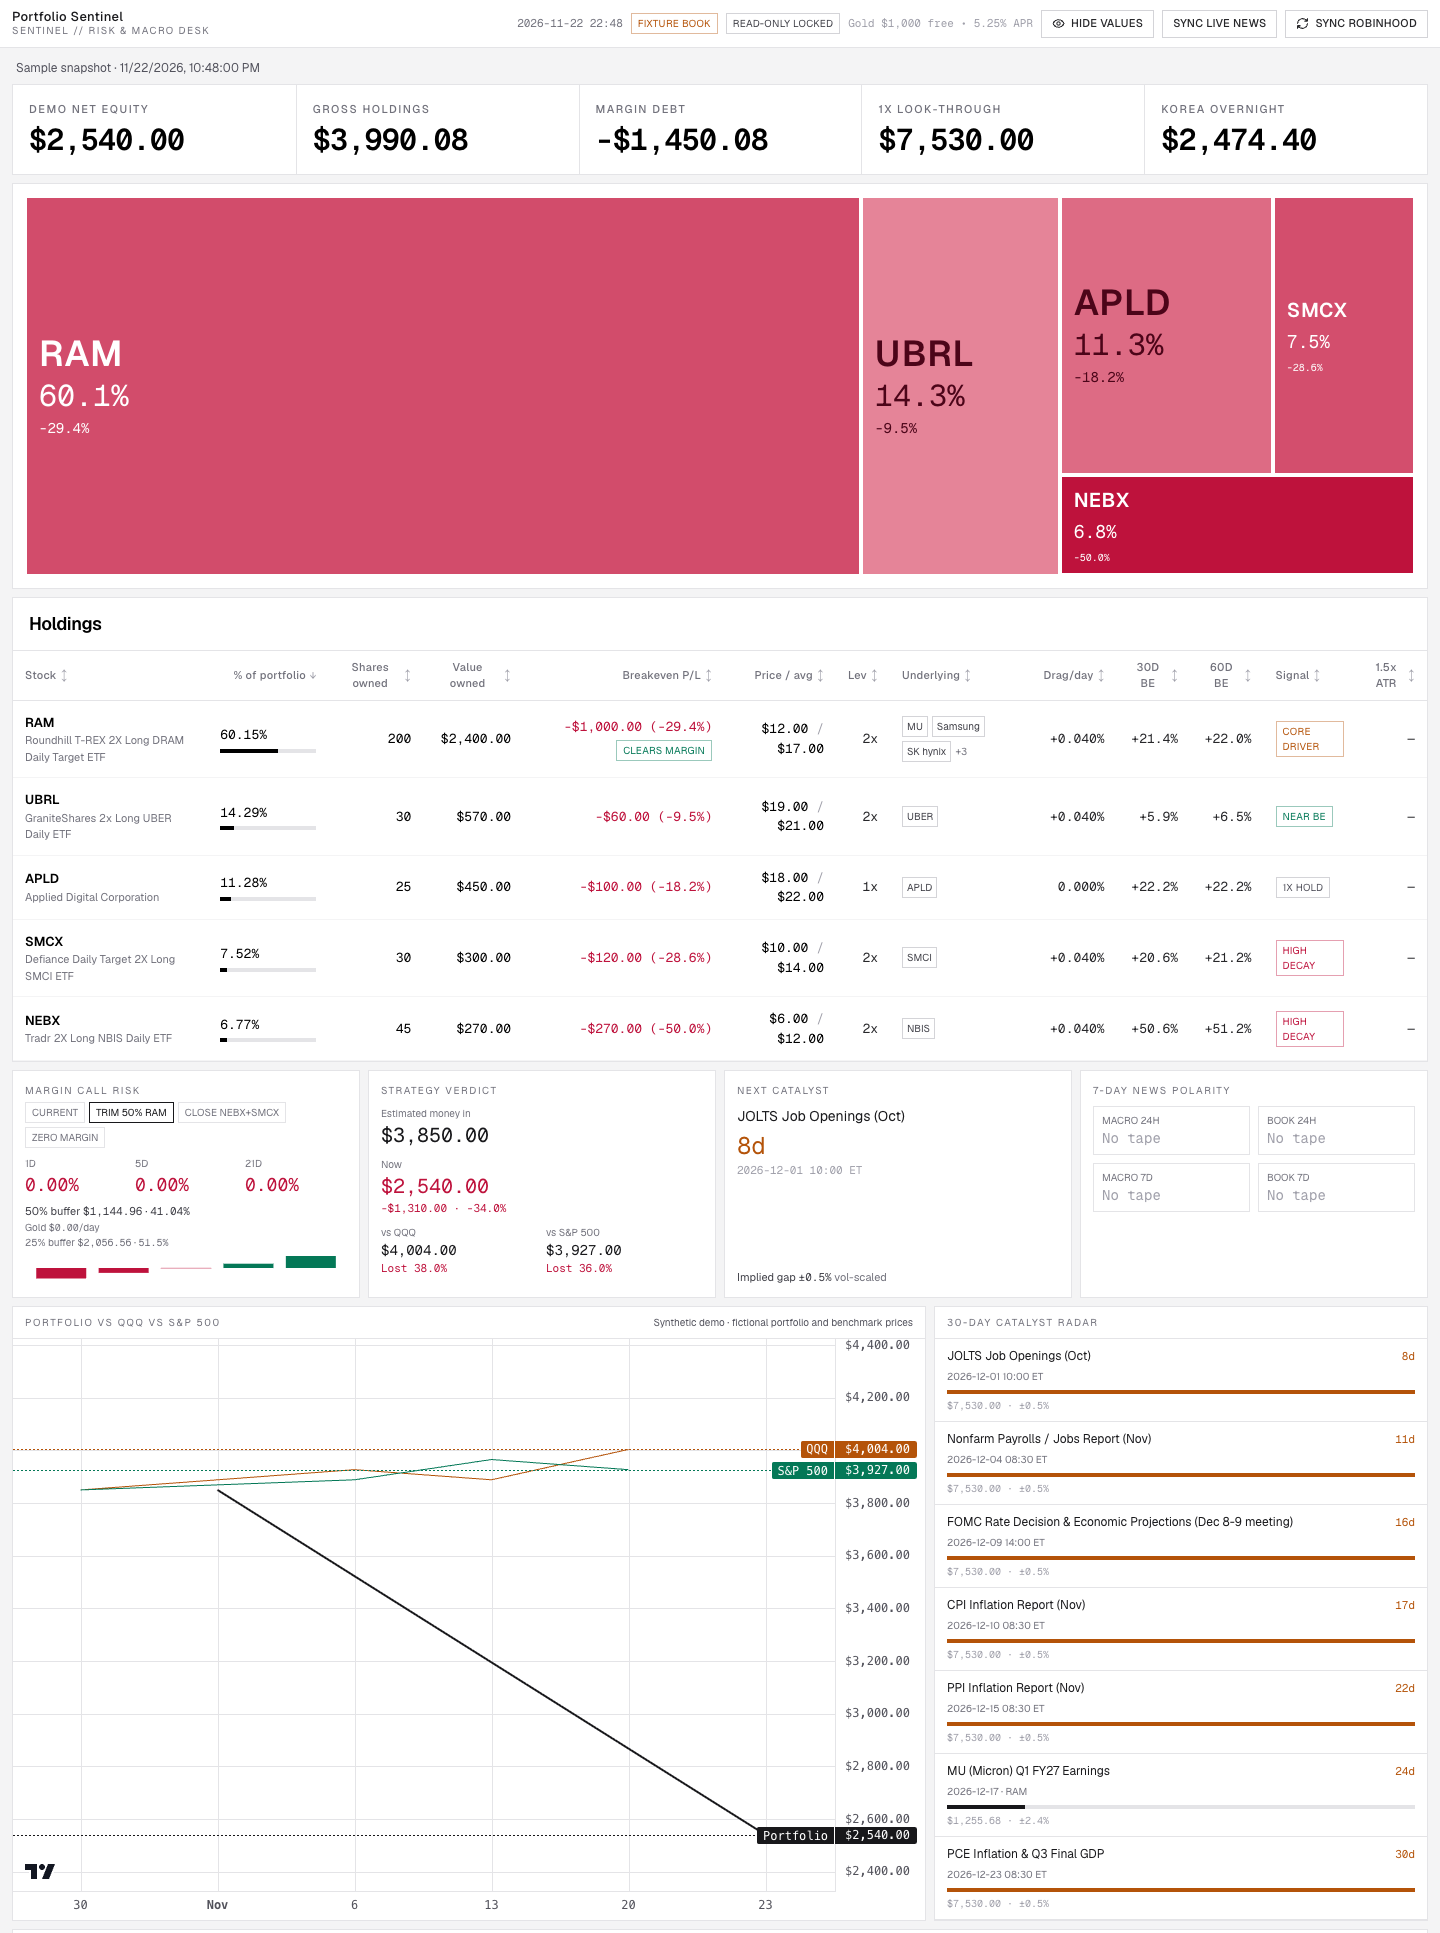
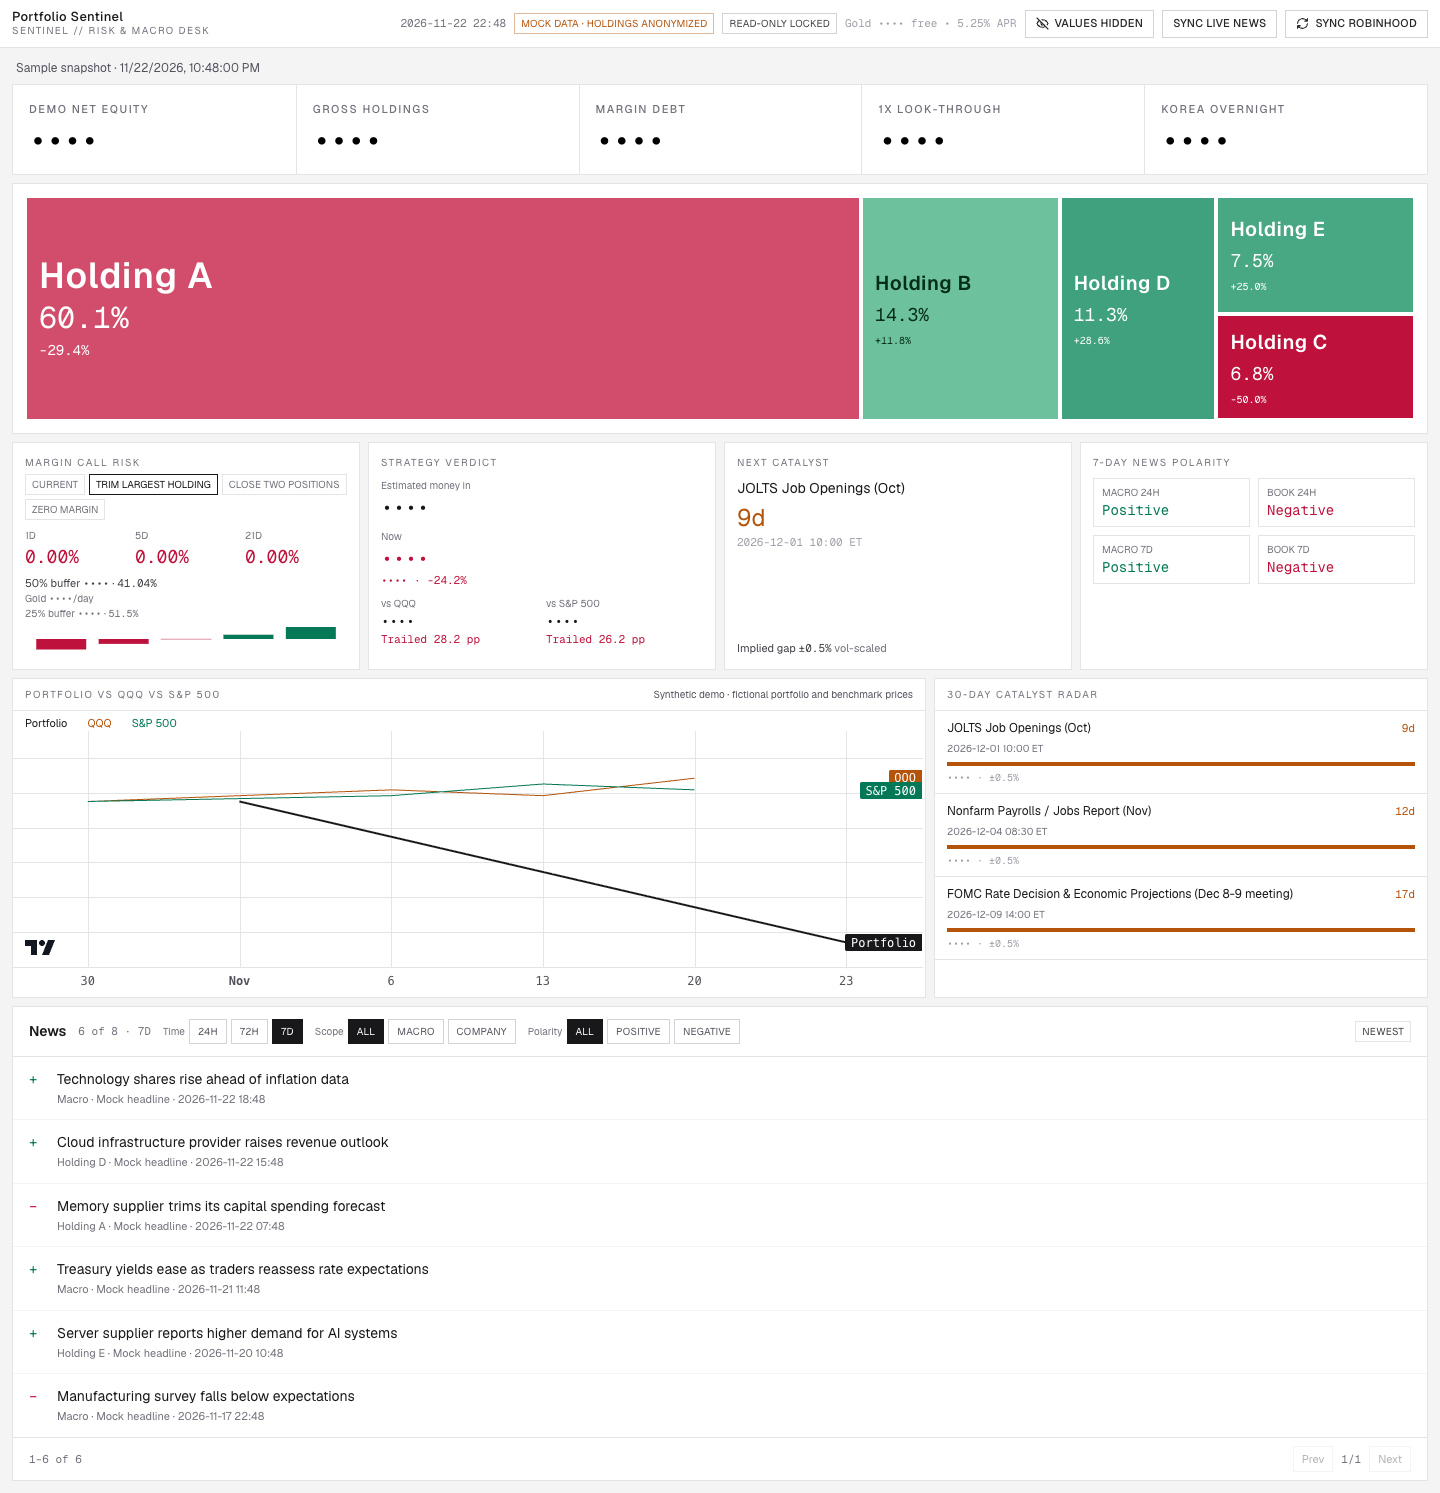
Anonymize public demo holdings and mask screenshot values

diff --git a/web/components/equity-chart.tsx b/web/components/equity-chart.tsx
@@ -40,7 +40,7 @@ export function EquityChart({
         vertLines: { color: "#e4e4e7" },
         horzLines: { color: "#e4e4e7" },
       },
-      rightPriceScale: { borderColor: "#e4e4e7" },
+      rightPriceScale: { borderColor: "#e4e4e7", visible: !hidden },
       timeScale: { borderColor: "#e4e4e7" },
       localization: {
         priceFormatter: (price: number) => (hidden ? "••••" : usd(price, 2)),
@@ -56,6 +56,8 @@ export function EquityChart({
         color: series.color,
         lineWidth: series.width,
         title: series.title,
+        lastValueVisible: !hidden,
+        priceLineVisible: !hidden,
         autoscaleInfoProvider: padScale,
       });
       const data = unique(lines[series.key]);
@@ -77,6 +79,9 @@ export function EquityChart({
             : "Estimated starting capital · QQQ and SPY use Yahoo Finance daily prices"}
         </span>
       </header>
+      <div className="flex gap-5 px-3 pt-1 text-[11px]">
+        {SERIES.map((series) => <span key={series.key} style={{ color: series.color }}>{series.title}</span>)}
+      </div>
       {curve.length === 0 ? (
         <p className="p-3 text-xs text-zinc-500">
           The comparison needs all-time realized profit on the saved book.

diff --git a/web/components/positions-table.tsx b/web/components/positions-table.tsx
@@ -5,7 +5,7 @@ import { flexRender } from "@tanstack/react-table";
 import { getCoreRowModel, legacyCreateColumnHelper, useLegacyTable } from "@tanstack/react-table/legacy";
 import { Money, usePrivacy } from "@/components/privacy";
 import { Badge } from "@/components/ui/badge";
-import { pct, usd } from "@/lib/format";
+import { pct } from "@/lib/format";
 import type { PositionRow } from "@/lib/types";
 
 const helper = legacyCreateColumnHelper<PositionRow>();
@@ -295,7 +295,7 @@ function Signal({ name }: { name?: string }) {
 function PositionDrawer({ row, onClose }: { row: PositionRow; onClose: () => void }) {
   const target =
     row.underlying_symbol && row.underlying_target_30d != null
-      ? `${row.underlying_symbol} ${usd(row.underlying_target_30d, 2)}`
+      ? <>{row.underlying_symbol} <Money value={row.underlying_target_30d} /></>
       : null;
   return (
     <aside className="fixed inset-y-0 right-0 z-30 flex w-[320px] flex-col border-l border-zinc-200 bg-white text-black shadow-2xl">

diff --git a/web/components/status-bar.tsx b/web/components/status-bar.tsx
@@ -31,7 +31,7 @@ export function StatusBar({
         <span className="num text-[11px] text-zinc-500">
           {asOf ? asOf.replace("T", " ").slice(0, 16) : "no sync"}
         </span>
-        {source === "fixture" ? <Badge tone="warn">Fixture book</Badge> : null}
+        {source === "fixture" ? <Badge tone="warn">Mock data · holdings anonymized</Badge> : null}
         <Badge tone="lock">Read-only locked</Badge>
         <span className="num text-[11px] text-zinc-400">
           Gold {hidden ? "••••" : "$1,000"} free • 5.25% APR

diff --git a/web/components/morning-cards.tsx b/web/components/morning-cards.tsx
@@ -172,7 +172,7 @@ function Benchmark({
         <Money value={ending} />
       </div>
       <div className={`num text-[11px] ${gap == null ? "text-zinc-400" : beat ? "text-[#047857]" : "text-[#be123c]"}`}>
-        {gap == null ? "—" : `${beat ? "Beat" : "Lost"} ${plainPct(Math.abs(gap))}`}
+        {gap == null ? "—" : `${beat ? "Ahead" : "Trailed"} ${(Math.abs(gap) * 100).toFixed(1)} pp`}
       </div>
     </div>
   );

diff --git a/web/components/heat-map.tsx b/web/components/heat-map.tsx
@@ -158,7 +158,7 @@ export function HeatMap({
         {rects.map((rect) => {
           const paint = tilePaint(rect.tile.unrealized_pct);
           const weight = gross ? (rect.tile.market_value / gross) * 100 : 0;
-          const large = rect.w > 180 && rect.h > 120;
+          const large = rect.w > 212 && rect.h > 120;
           const medium = rect.w > 96 && rect.h > 72;
           return (
             <div

diff --git a/src/desk.py b/src/desk.py
@@ -59,7 +59,8 @@ def compose_dashboard(
     if refresh_quotes and source == "live":
         quotes = _mark_book_market_quotes(book)
     portfolio_map = _read_json(repo / "portfolio_map.json")
-    audit, sigma_source = _metrics(repo, book, portfolio_map)
+    demo = source == "fixture"
+    audit, sigma_source = _metrics(repo, book, portfolio_map, use_cache=not demo)
     positions = list(audit.get("positions") or [])
     sim_rows = [
         {
@@ -78,7 +79,7 @@ def compose_dashboard(
     calendar = build_calendar(
         portfolio_map,
         positions,
-        datetime.now(ZoneInfo("America/Los_Angeles")),
+        as_of if demo else datetime.now(ZoneInfo("America/Los_Angeles")),
         _sigma_map(positions),
     )
     unrealized = _sum(row.get("unrealized_pnl") for row in positions)
@@ -101,14 +102,19 @@ def compose_dashboard(
         margin_used=margin_used,
         current=margin,
     )
-    performance = read_performance(
-        repo / "data" / "sentinel.duckdb",
-        benchmarks=_benchmark_points(repo),
-        unrealized_pnl=unrealized,
-        daily_decay_drag=decay,
-        margin_used=margin_used,
-    )
-    if source == "live":
+    performance_args = {
+        "unrealized_pnl": unrealized,
+        "daily_decay_drag": decay,
+        "margin_used": margin_used,
+    }
+    if demo:
+        performance = summarize_performance([], **performance_args)
+    else:
+        performance = read_performance(
+            repo / "data" / "sentinel.duckdb",
+            benchmarks=_benchmark_points(repo),
+            **performance_args,
+        )
         performance = _with_reconstruction(
             repo,
             positions,
@@ -119,7 +125,7 @@ def compose_dashboard(
             daily_decay_drag=decay,
             book_as_of=as_of.isoformat(),
         )
-    performance["benchmark_curves"] = _rebased_benchmarks(
+    performance["benchmark_curves"] = {} if demo else _rebased_benchmarks(
         performance.get("equity_curve") or [],
         _benchmark_levels(repo, performance),
     )
@@ -131,7 +137,19 @@ def compose_dashboard(
         as_of_date=as_of_day,
         levels=_read_json(repo / "data" / "fixtures" / "sample_benchmarks.json") if source == "fixture" else _read_benchmarks(repo),
     )
-    tape = _visible_tape(_read_tape(repo), positions)
+    if demo:
+        tape = json.loads((repo / "data" / "fixtures" / "sample_news.json").read_text(encoding="utf-8"))
+        positions = [_anonymize_demo_position(row, index) for index, row in enumerate(positions)]
+        radar = [event for event in calendar["radar"] if event["kind"] == "macro"]
+        next_catalyst = radar[0] if radar else None
+        scenario_labels = {"trim_ram": "Trim largest holding", "close_nebx_smcx": "Close two positions"}
+        scenarios = [
+            {**scenario, "label": scenario_labels.get(scenario["id"], scenario["label"])}
+            for scenario in scenarios
+        ]
+    else:
+        tape = _visible_tape(_read_tape(repo), positions)
+        radar, next_catalyst = calendar["radar"], calendar["next"]
     fear_greed = load_fear_greed(repo, start_date=str(primary.get("first_activity_date") or "") or None) if source == "live" else None
     drops = dict(margin["drops"])
     drops["stressed_static_buffer_usd"] = buffer["usd"]
@@ -170,8 +188,8 @@ def compose_dashboard(
         },
         "performance": performance,
         "fear_greed": fear_greed,
-        "next_catalyst": calendar["next"],
-        "radar": calendar["radar"],
+        "next_catalyst": next_catalyst,
+        "radar": radar,
         "sentiment": sentiment_gauges(tape),
         "heatmap": [
             {
@@ -185,6 +203,17 @@ def compose_dashboard(
         "positions": positions,
         "news": tape,
     }
+
+
+
+def _anonymize_demo_position(row: Mapping[str, Any], index: int) -> dict[str, Any]:
+    fields = (
+        "asset_class", "shares", "avg_cost", "current_price", "market_value",
+        "unrealized_pnl", "leverage", "daily_variance_drag", "breakeven_underlying_30d",
+        "breakeven_underlying_60d", "stop_limit_trigger", "cost_basis",
+        "equity_if_breakeven", "clears_margin", "signal", "vol_capped",
+    )
+    return {**{key: row.get(key) for key in fields}, "ticker": f"Holding {chr(65 + index)}"}
 
 
 def filter_news(
@@ -410,10 +439,14 @@ def _refresh_benchmarks(repo: Path, first_activity_date: str | None = None) -> N
 
 
 def _metrics(
-    repo: Path, book: Mapping[str, Any], portfolio_map: Mapping[str, Any]
+    repo: Path,
+    book: Mapping[str, Any],
+    portfolio_map: Mapping[str, Any],
+    *,
+    use_cache: bool = True,
 ) -> tuple[dict[str, Any], str]:
     audit_path = repo / "data" / "latest_audit.json"
-    cached = _read_json(audit_path) if audit_path.exists() else {}
+    cached = _read_json(audit_path) if use_cache and audit_path.exists() else {}
     cached_rows = cached.get("positions") or []
     if cached_rows:
         return build_metrics(

diff --git a/tests/test_demo_dashboard.py b/tests/test_demo_dashboard.py
@@ -19,7 +19,10 @@ def test_synthetic_dashboard_reconciles_without_a_broker_snapshot(tmp_path):
 
     assert data["source"] == "fixture"
     assert data["broker_net_equity"] is None
-    assert len(data["heatmap"]) == 5
+    assert [tile["ticker"] for tile in data["heatmap"]] == [f"Holding {letter}" for letter in "ABCDE"]
+    assert [row["ticker"] for row in data["positions"]] == [f"Holding {letter}" for letter in "ABCDE"]
+    assert all("underlying_symbol" not in row and "name" not in row for row in data["positions"])
+    assert data["news"] and all(item["publisher"] == "Mock headline" for item in data["news"])
     assert sum(tile["market_value"] for tile in data["heatmap"]) == pytest.approx(3990)
     assert comparison["portfolio"][-1]["value"] == capital["net_equity"]
     assert capital["gross_holdings"] + capital["margin_debt"] == pytest.approx(capital["net_equity"])

diff --git a/README.md b/README.md
@@ -22,7 +22,7 @@ I built **Portfolio Sentinel** to better understand my own portfolio’s exposur
 
 ![Portfolio Sentinel dashboard with a synthetic holdings heat map, margin scenario, and QQQ and SPY comparison](docs/dashboard-demo.png)
 
-The screenshot shows a fictional portfolio and a simulated trim scenario. The chart endpoint and the net equity tile both reconcile to the same fixture value.
+The screenshot shows mock holdings, benchmark series, and headlines. Holding names are anonymized and dollar values are hidden. The chart endpoint and the net equity tile reconcile to the same fictional value.
 
 ## Architecture
 
@@ -82,7 +82,7 @@ npm --prefix web ci
 ./dev.sh
 ```
 
-Open [the local dashboard](http://localhost:3000). The demo includes five synthetic equity positions and both benchmark lines. Financial amounts and share counts start hidden. Use the visibility toggle to reveal them.
+Open [the local dashboard](http://localhost:3000). The demo includes five anonymized synthetic holdings, both benchmark lines, and a mock news feed. Financial amounts and share counts start hidden. The visibility toggle can reveal the fictional amounts.
 
 ## Optional Robinhood sync
 
